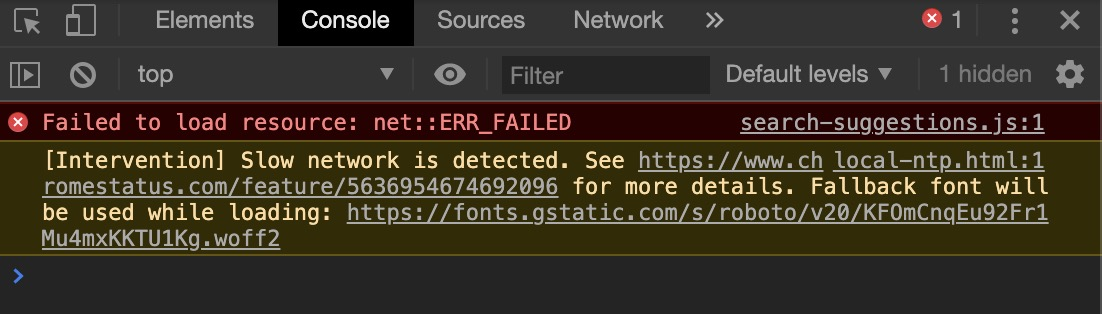
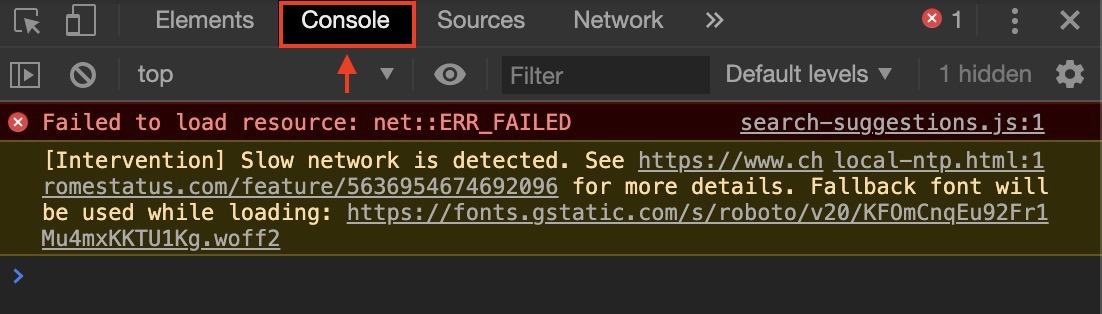
new image

Changed region(s): [[0.2468, 0.0, 0.4011, 0.2866]]

diff --git a/CEP/2-adobe-extendscript-programming-basics/2-adobe-extendscript-programming-basics.md b/CEP/2-adobe-extendscript-programming-basics/2-adobe-extendscript-programming-basics.md
@@ -28,11 +28,12 @@ However, all of this ECMA stuff only becomes important when you're getting serio
 
 ## Writing JavaScript in Chrome
 
-Since the core JS syntax like declaring a variable, adding numbers together or printing something out to the console hasn't changed much over time, we can hop into our Chrome debugger, which will give us an easy place to write some JS code and explain the above concepts. To open a concole in Chrome, right-click anywhere on an open webpage and click `Inspect`. This should bring up the Chrome Inspector looking something like: 
+Since the core JS syntax like declaring a variable, adding numbers together or printing something out to the console hasn't changed much over time, we can hop into our Chrome debugger, which will give us an easy place to write some JS code and explain the above concepts. To open a concole in Chrome, right-click anywhere on an open webpage and click `Inspect`. This should bring up the Chrome Inspector and you're going to want to go to the `Console` tab shown below. Depending on which webpage you open you inspector your warning and error messages might differ. 
 
 
 <p align="center">
-
   <img src='./assets/chrome-inspector.jpg' width='400px'>
-  
 </p>
+
+
+Great! Maybe you didn't know that all browsers have a JavaSript console built in. BTW they do, sometimes there just a bit tricky to get to. I know with Safari on Mac you've got to enable "Developer Tools". The interface you are presented with, the image shown above, is what we call a <a href='https://en.wikipedia.org/wiki/Command-line_interface'>Command Line Interface</a> (CLI) as oppsed to a <a href='https://en.wikipedia.org/wiki/Graphical_user_interface'>Graphical User Interface</a> (GUI). The difference? The one uses pictures, the other uses text. for reference the `console` is also sometime refered to as the `terminal` or just CLI. 
